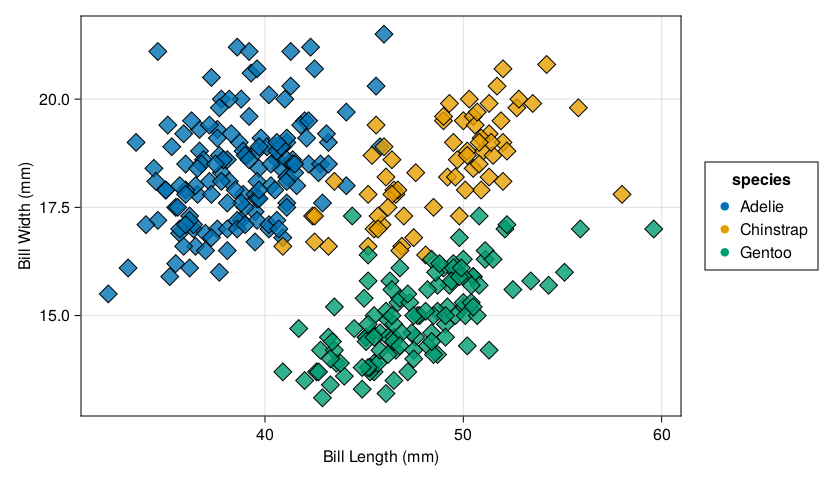
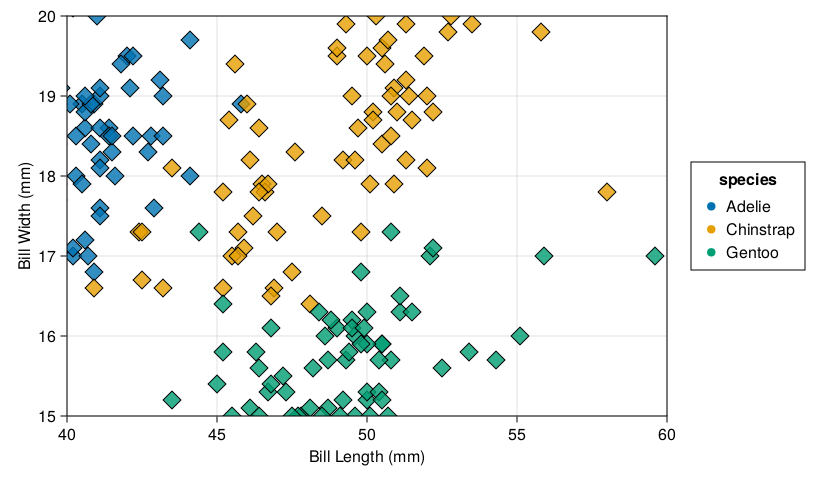
adds support for @lims
new macro @lims supports setting x and y limits

diff --git a/README.md b/README.md
@@ -52,6 +52,7 @@ Geoms:
 Additional Elements:
 
 - `@labs()`
+- `@lims()`
 
 ## Example
 
@@ -104,6 +105,7 @@ penguins = dropmissing(DataFrame(PalmerPenguins.load()))
                 stroke = 1, 
                 strokecolour = "black",
                 alpha = 0.8) +
-    @labs(x = "Bill Length (mm)", y = "Bill Width (mm)")
+    @labs(x = "Bill Length (mm)", y = "Bill Width (mm)") +
+    @lims(x = c(40, 60), y = c(15, 20))
 ```
 ![](assets/geom_point_customize.png)
